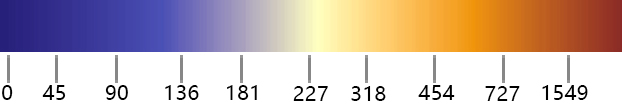
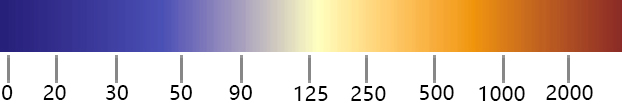
pic

diff --git a/myreactapp/src/App.js b/myreactapp/src/App.js
@@ -24,7 +24,7 @@ class Guanglegend extends React.Component{
       <div id="legend">
         <img src="./光环境图标.jpg"/>
 <div className="formula">
-        <label>单位：</label><InlineMath math="W/(m^2⋅sr⋅μm)"></InlineMath>
+        <label>辐亮度</label><InlineMath math="nW/(cm^2⋅sr)"></InlineMath>
  </div>
  </div>
       )
@@ -703,10 +703,26 @@ class App extends Component{
       var layer1 = new ol.layer.Tile({
                  source:wmsSource
            });
-
+/*
       var tempdata=this.state.shenglayers;
       tempdata[tuceng]=layer1;
       this.setState({shenglayers:tempdata});
+      layer1.setOpacity(this.state.svalue/100);
+      //this.setState({lightlayer:layer1});
+      this.map.addLayer(layer1,1)
+      */
+      let p=new Promise((resolve,reject)=>{
+       tempdata=this.state.shenglayers;
+        tempdata[tuceng]=layer1;
+        this.setState({shenglayers:tempdata});
+       //console.log("abc");
+       resolve("success");
+        reject('reject')
+        
+      })
+      //p.bind(this);
+      p.then(function(value){ console.log(tempdata)},function(value){alert("fail")});
+      
       layer1.setOpacity(this.state.svalue/100);
       //this.setState({lightlayer:layer1});
       this.map.addLayer(layer1,1)

diff --git a/myreactapp/src/App.css b/myreactapp/src/App.css
@@ -52,11 +52,14 @@ li{
   margin-left:2px;
   margin-right: 2px;
 }
-#legend img{
+#legend{
   margin-top: 4px;
-  max-width: 270px;
+  
   margin-left: 10px;
   margin-right: 10px;
+}
+#legend img{
+  max-width: 270px;
 }
 #anquan img{
 margin-top: 4px;
